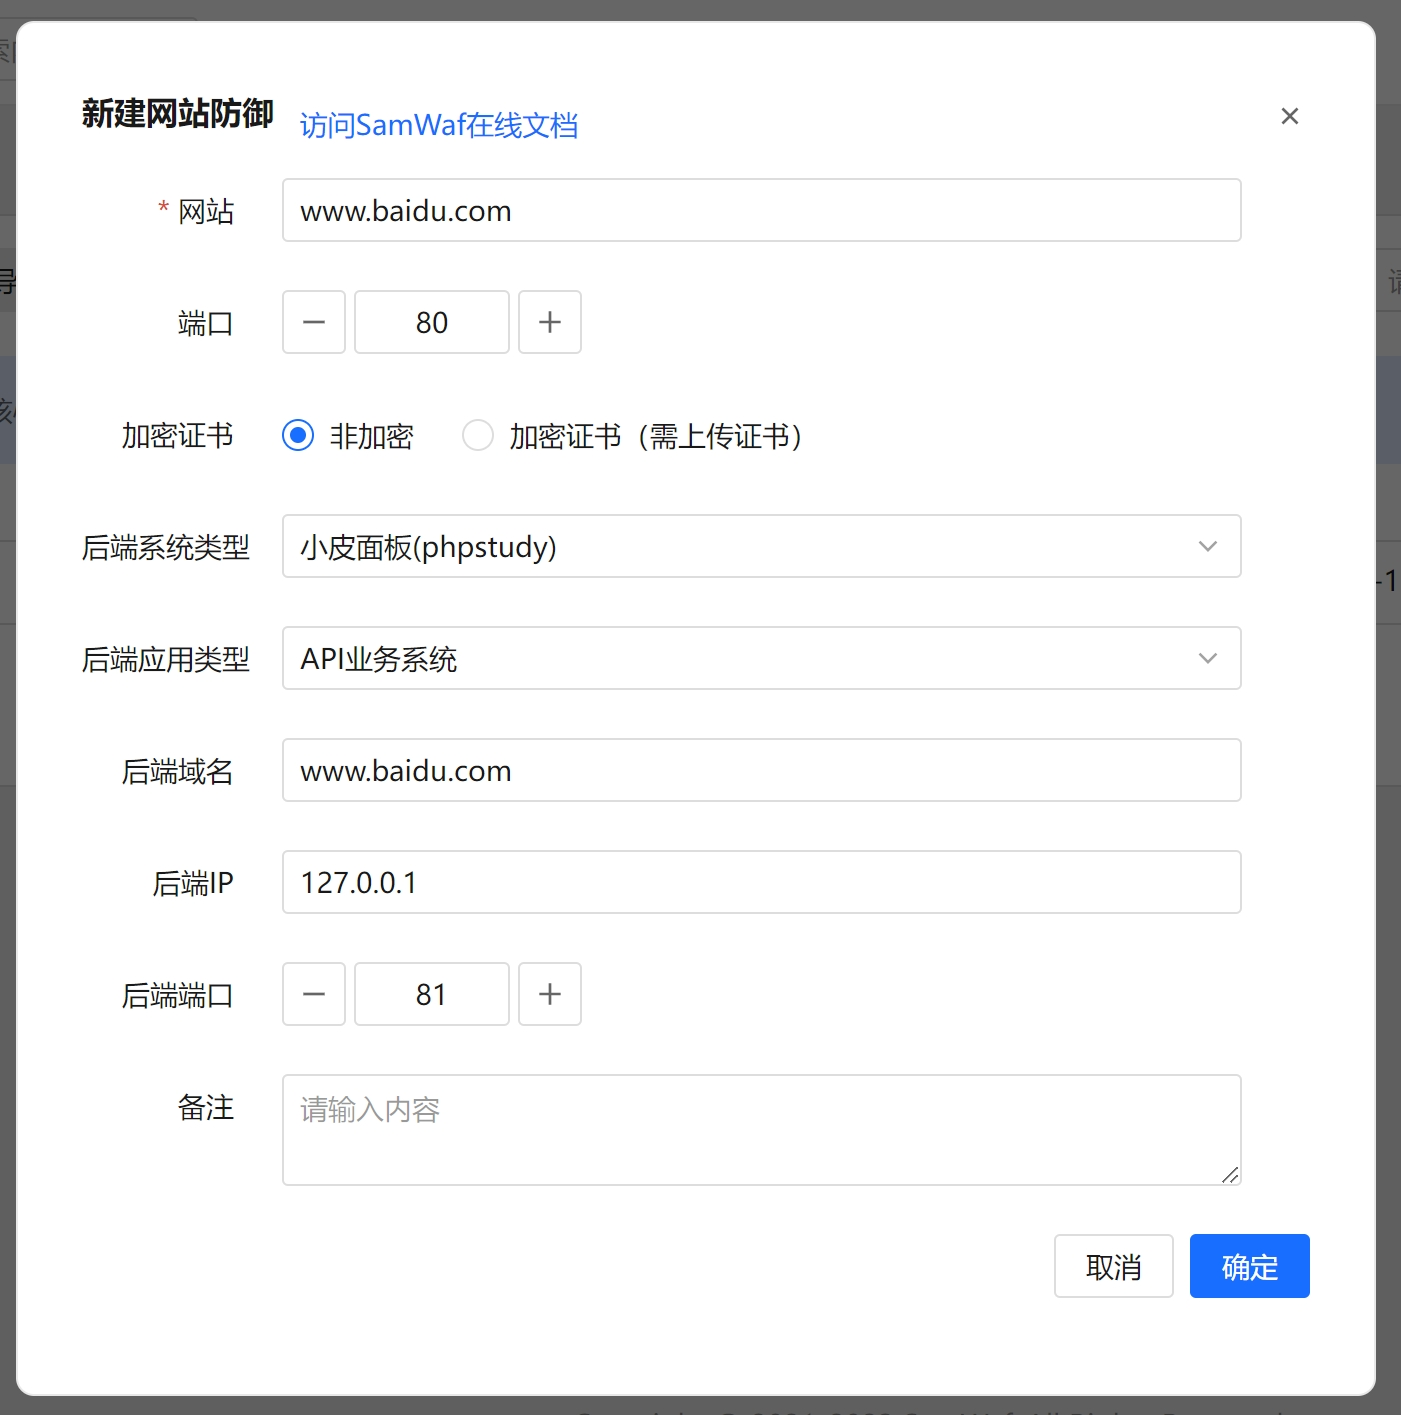
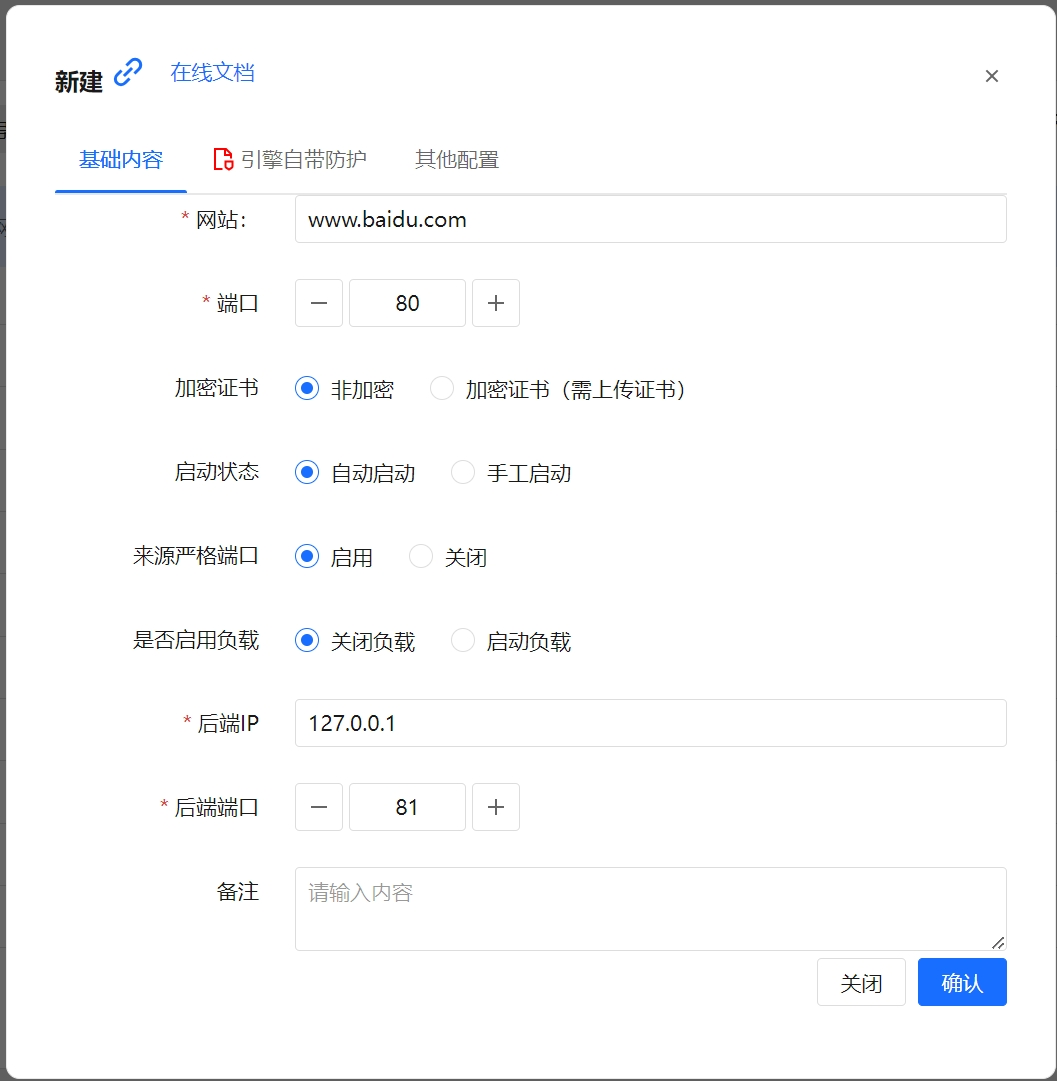
feat:update chinese

diff --git a/docs/.vuepress/sidebar/zh.ts b/docs/.vuepress/sidebar/zh.ts
@@ -15,7 +15,10 @@ export const zhSidebar = sidebar(
 					'/guide/UrlBlack.md',
 					'/guide/Ldp.md',
 					'/guide/CC.md',
-					'/guide/AttackLog.md']
+					'/guide/AttackLog.md',
+					'/guide/Sensitive.md',
+					'/guide/SSLConfig.md',
+					]
 			}
 		],	
 		"/quickstart/": [

diff --git a/docs/guide/Host.md b/docs/guide/Host.md
@@ -53,20 +53,24 @@ flowchart TB
   
 ```
 ## 2 新增可被防火墙保护的网站：
-![新增一个受到SamWaf防火墙保护的网站](/images/add_host.png)
-配置一次即可随时使用。
 
-1. 网站：
+关键配置，配置一次即可随时使用。
+
+### 2.1 新增网站
+ ![新增一个受到SamWaf防火墙保护的网站](/images/add_host.png)
+- 网站：
     - 正常填写网站域名即可,注意 https，http前缀,/ 等后缀都不要加
 	
 	例如：www.baidu.com，pan.baidu.com
 	
-2. 端口：
+- 端口：
     - 输入需要防护的网站端口 
 	http是80 https 是 443 （如果已经安装了宝塔，Nginx，IIS等 需要手工改动端口成非80，或者非443端口）[修改查看常见问题](./Question.md#_1-端口80-被占用情况) 
-3. 加密证书：
-    - 如果是https需要选择加密证书，80端口不需要
-	- 密钥串
+- 加密证书：
+    1.如果是https需要选择加密证书，80端口不需要
+	首次需要点击“添加新证书”，新增证书。
+	
+	 ![新增SSL证书](/images/add_ssl.png)
 	```
 	通常文件名：*.key 内容格式如下：-----BEGIN RSA PRIVATE KEY----- ... 全选复制填写进来
 	```
@@ -75,13 +79,42 @@ flowchart TB
 	通常文件名：*.crt 内容格式如下：-----BEGIN CERTIFICATE----- ... 全选复制填写进来
 	```
 	
-4. 后端系统类型、后端应用类型：
-    -  非必要，可以选择和实际一样，也可以保持默认（后期可能针对后端接入不同做适配处理）
-5. 后端域名：
-    - 后端域名通常同第一项网站域名相同
-6. 后端IP：
-    - 如SamWaf同网站在同一台服务器 填写127.0.0.1 如果是不同服务器请填写实际IP	
-7. 后端端口：
-    - 情况1，在SamWaf和网站在同一台服务器，那么端口需要写成81等其他端口  情况2：如果不在同一台服务器，那么此处可以原来端口 
+	2. 从证书夹选择对应证书
+
+     ![选择证书](/images/add_host_select_ssl.png)
 	
-	 
+- 启动状态：
+	自动启动：添加后正常提供服务；手工启动，添加后不会占用端口，不提供服务。
+
+- 来源严格端口：
+    来源严格端口 默认是开启，如果关闭后 适合外层nginx,cdn情况
+	
+- 后端系统类型、后端应用类型：
+     非必要，可以选择和实际一样，也可以保持默认（后期可能针对后端接入不同做适配处理）
+ 
+- 后端IP：
+     如SamWaf同网站在同一台服务器 填写127.0.0.1 如果是不同服务器请填写实际IP	
+- 后端端口：
+     情况1，在SamWaf和网站在同一台服务器，那么端口需要写成81等其他端口  情况2：如果不在同一台服务器，那么此处可以原来端口 
+	
+## 3 负载均衡：
+负载均衡支持：权重轮询(WRR),IP Hash
+ 
+- 权重轮询(WRR)：根据后端服务器的权重，按依次将请求分发给不同的服务器。权值越高的服务器被轮询到的次数（概率）越高。
+
+- IP Hash：根据请求的源 IP 地址，使用散列键（Hash Key）从散列表找出对应的服务器,使得相同IP每次访问的服务器是固定的。
+
+
+### 3.1 负载均衡配置
+点击被防护的网站启动“负载均衡”。
+
+![负载均衡列表](/images/loadbalanceindex.png)。
+
+### 3.2 添加后端负载
+### 
+![负载配置](/images/loadbalance_edit.png)。
+
+- IP： 填入后端可接入的IP
+- 端口： 填入后端可接入的端口
+- 权重：填入权重，针对 权重轮询(WRR)模式，可以增加客户访问改服务器的几率。
+

diff --git a/docs/quickstart/Update.md b/docs/quickstart/Update.md
@@ -1,4 +1,66 @@
 # 版本发布
+## 20241011 (v1.3.6)
+- 新增定义IP数据库 
+[https://gitee.com/samwaf/SamWaf/blob/main/docs/ipmodify.md](https://gitee.com/samwaf/SamWaf/blob/main/docs/ipmodify.md)
+- 新增SSL证书夹并可以自动加载最新证书信息
+
+![证书加载位置](/images/sslconfig_auto.png)
+
+- 添加docker脚本新增ssl文件夹目录映射 
+- 修正数据分析背景颜色问题
+- 修正数据分析全选问题
+- 修正攻击日志里面页面大小丢失的问题
+
+## 20241008 (v1.3.5)
+- 修正如果上游是CDN或者NGINX无法正常访问的问题
+主机编辑里面可依据情况 开启或者关闭 来源严格端口
+
+## 20241006 (v1.3.4)
+- 1.增加负载均衡
+
+![负载均衡列表](/images/loadbalanceindex.png)。
+
+- 2.运行支持windows 2008r2环境
+## 20240925 (v1.3.3)
+- 1.当服务形式安装、启动、停止、卸载后操作后回写反馈信息.
+- 2.当SamWaf启动完毕显示管理端地址.
+- 3.自定义获取上游Proxy Ip
+- 4.修正点击页面关闭逻辑问题
+- 5:进行Upx压缩减少文件大小
+
+## 20240920 (v1.3.2)
+- 1.修正几处多语言问题
+- 2.适配流水线编译
+- 3.增加拦截敏感词
+
+![敏感词](/images/Sensitive.png)
+
+- 4.增加日志导出sqlite db文件
+
+ ![增加日志导出](/images/export_log_db.png)
+ 
+- 5.正式开源
+
+## 20240903(v1.3.1)
+- 1.增加多语言环境
+- 2.增加docker环境
+```
+https://hub.docker.com/r/samwaf/samwaf
+```
+- 3.重构如果上游服务端失败也正常反馈出来
+- 4.修正如果写入失败情况异常的问题
+- 5.命令行新增管理员重置密码功能
+```
+如登录密码丢失可以使用命令行形式重置；
+
+SamWaf64.exe resetpwd
+
+SamWafLinux64 resetpwd
+```
+- 6.修正被拒情况没有返回403的问题
+- 7.修正当仅需要ssl情况下必须要重启才生效的问题
+- 8.修正检测内部修改weblog无效的问题
+- 
 ##  20240729(v1.2.2) 
 - 修正Thinkphp下提示"此表单不安全,因此,系统已关闭自动填充功能"的问题
   

diff --git a/docs/README.md b/docs/README.md
@@ -103,3 +103,10 @@ features:
   - title: 自定义IP库
     icon: tool
     details: IP归属库可自行替换完成更新 
+---	
+## 项目源码
+- gitee
+[https://gitee.com/samwaf/SamWaf](https://gitee.com/samwaf/SamWaf)
+- github
+[https://github.com/samwafgo/SamWaf](https://github.com/samwafgo/SamWaf)
+ 

diff --git a/docs/guide/SSLConfig.md b/docs/guide/SSLConfig.md
@@ -1,0 +1,13 @@
+# 证书夹
+ 
+## 1 证书夹 
+批量管理证书
+### 1.1 证书夹
+
+![证书夹](/images/sslconfig.png)
+ 
+ 
+ ### 1.2 证书自动加载
+
+![证书加载位置](/images/sslconfig_auto.png)
+

diff --git a/docs/guide/README.md b/docs/guide/README.md
@@ -7,3 +7,5 @@
 - [URL限制访问](./UrlBlack.md)
 - [URL隐私防护](./Ldp.md)
 - [CC防护(数据脱敏处理)](./CC.md)
+- [敏感词管理](./Sensitive.md)
+- [证书夹](./SSLConfig.md)

diff --git a/docs/guide/Sensitive.md b/docs/guide/Sensitive.md
@@ -1,0 +1,10 @@
+# 敏感词管理
+ 
+## 1 敏感词 
+特定敏感词屏蔽
+### 1.1 敏感词管理
+
+![敏感词](/images/Sensitive.png)
+ 
+添加敏感词进行拒绝
+ 
